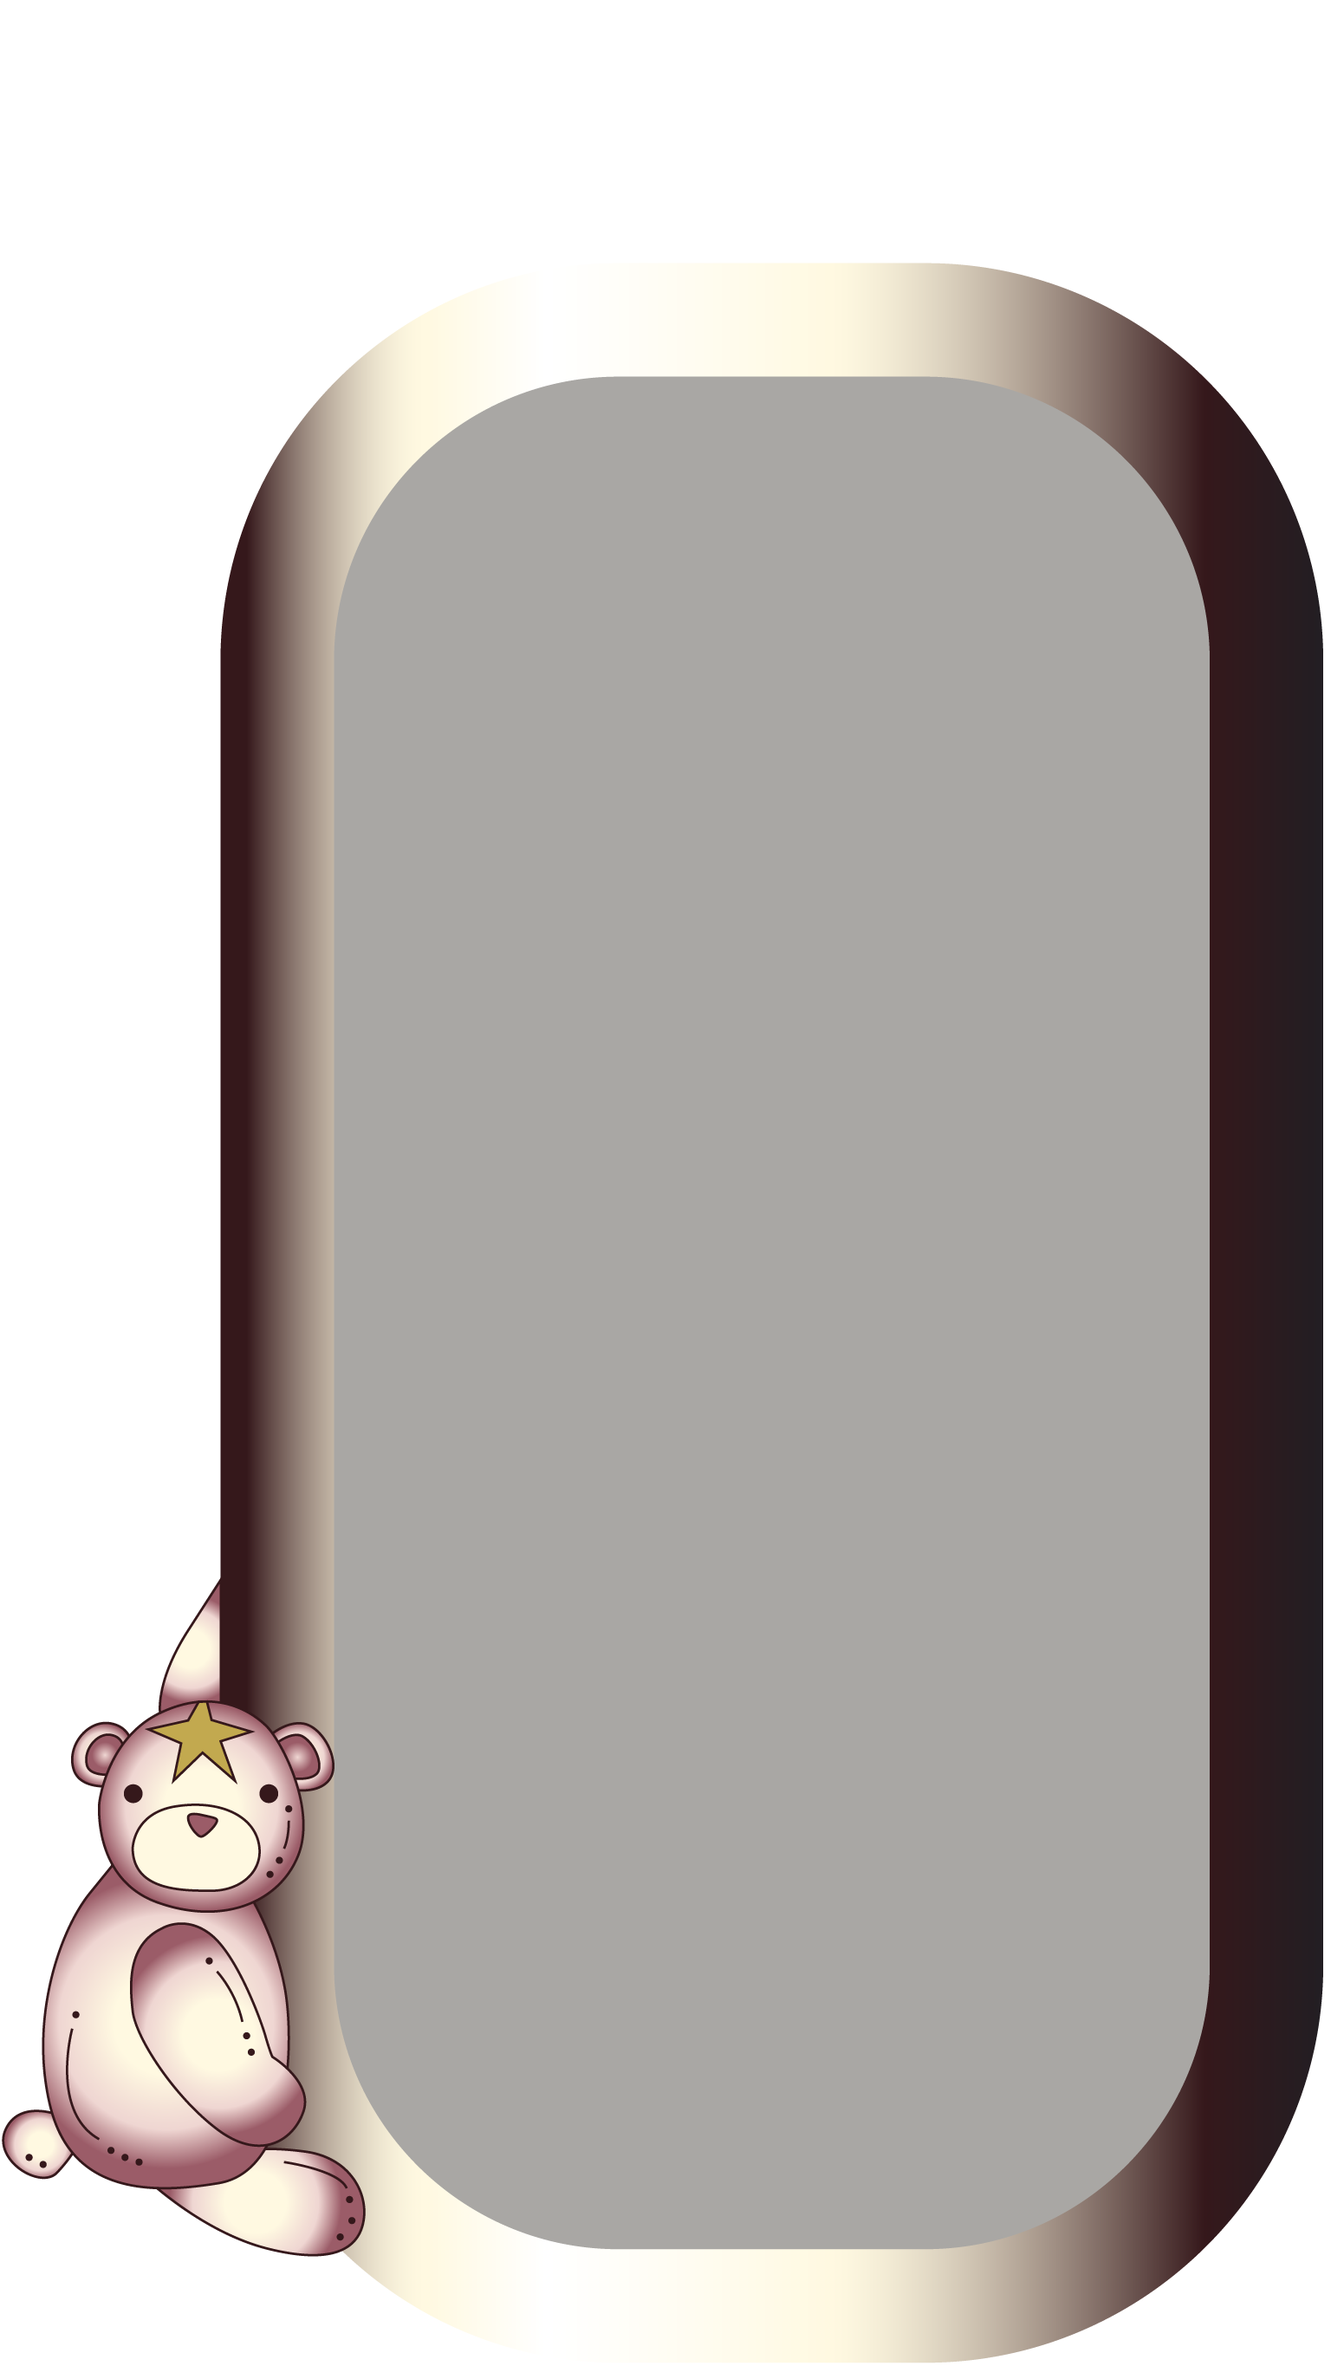
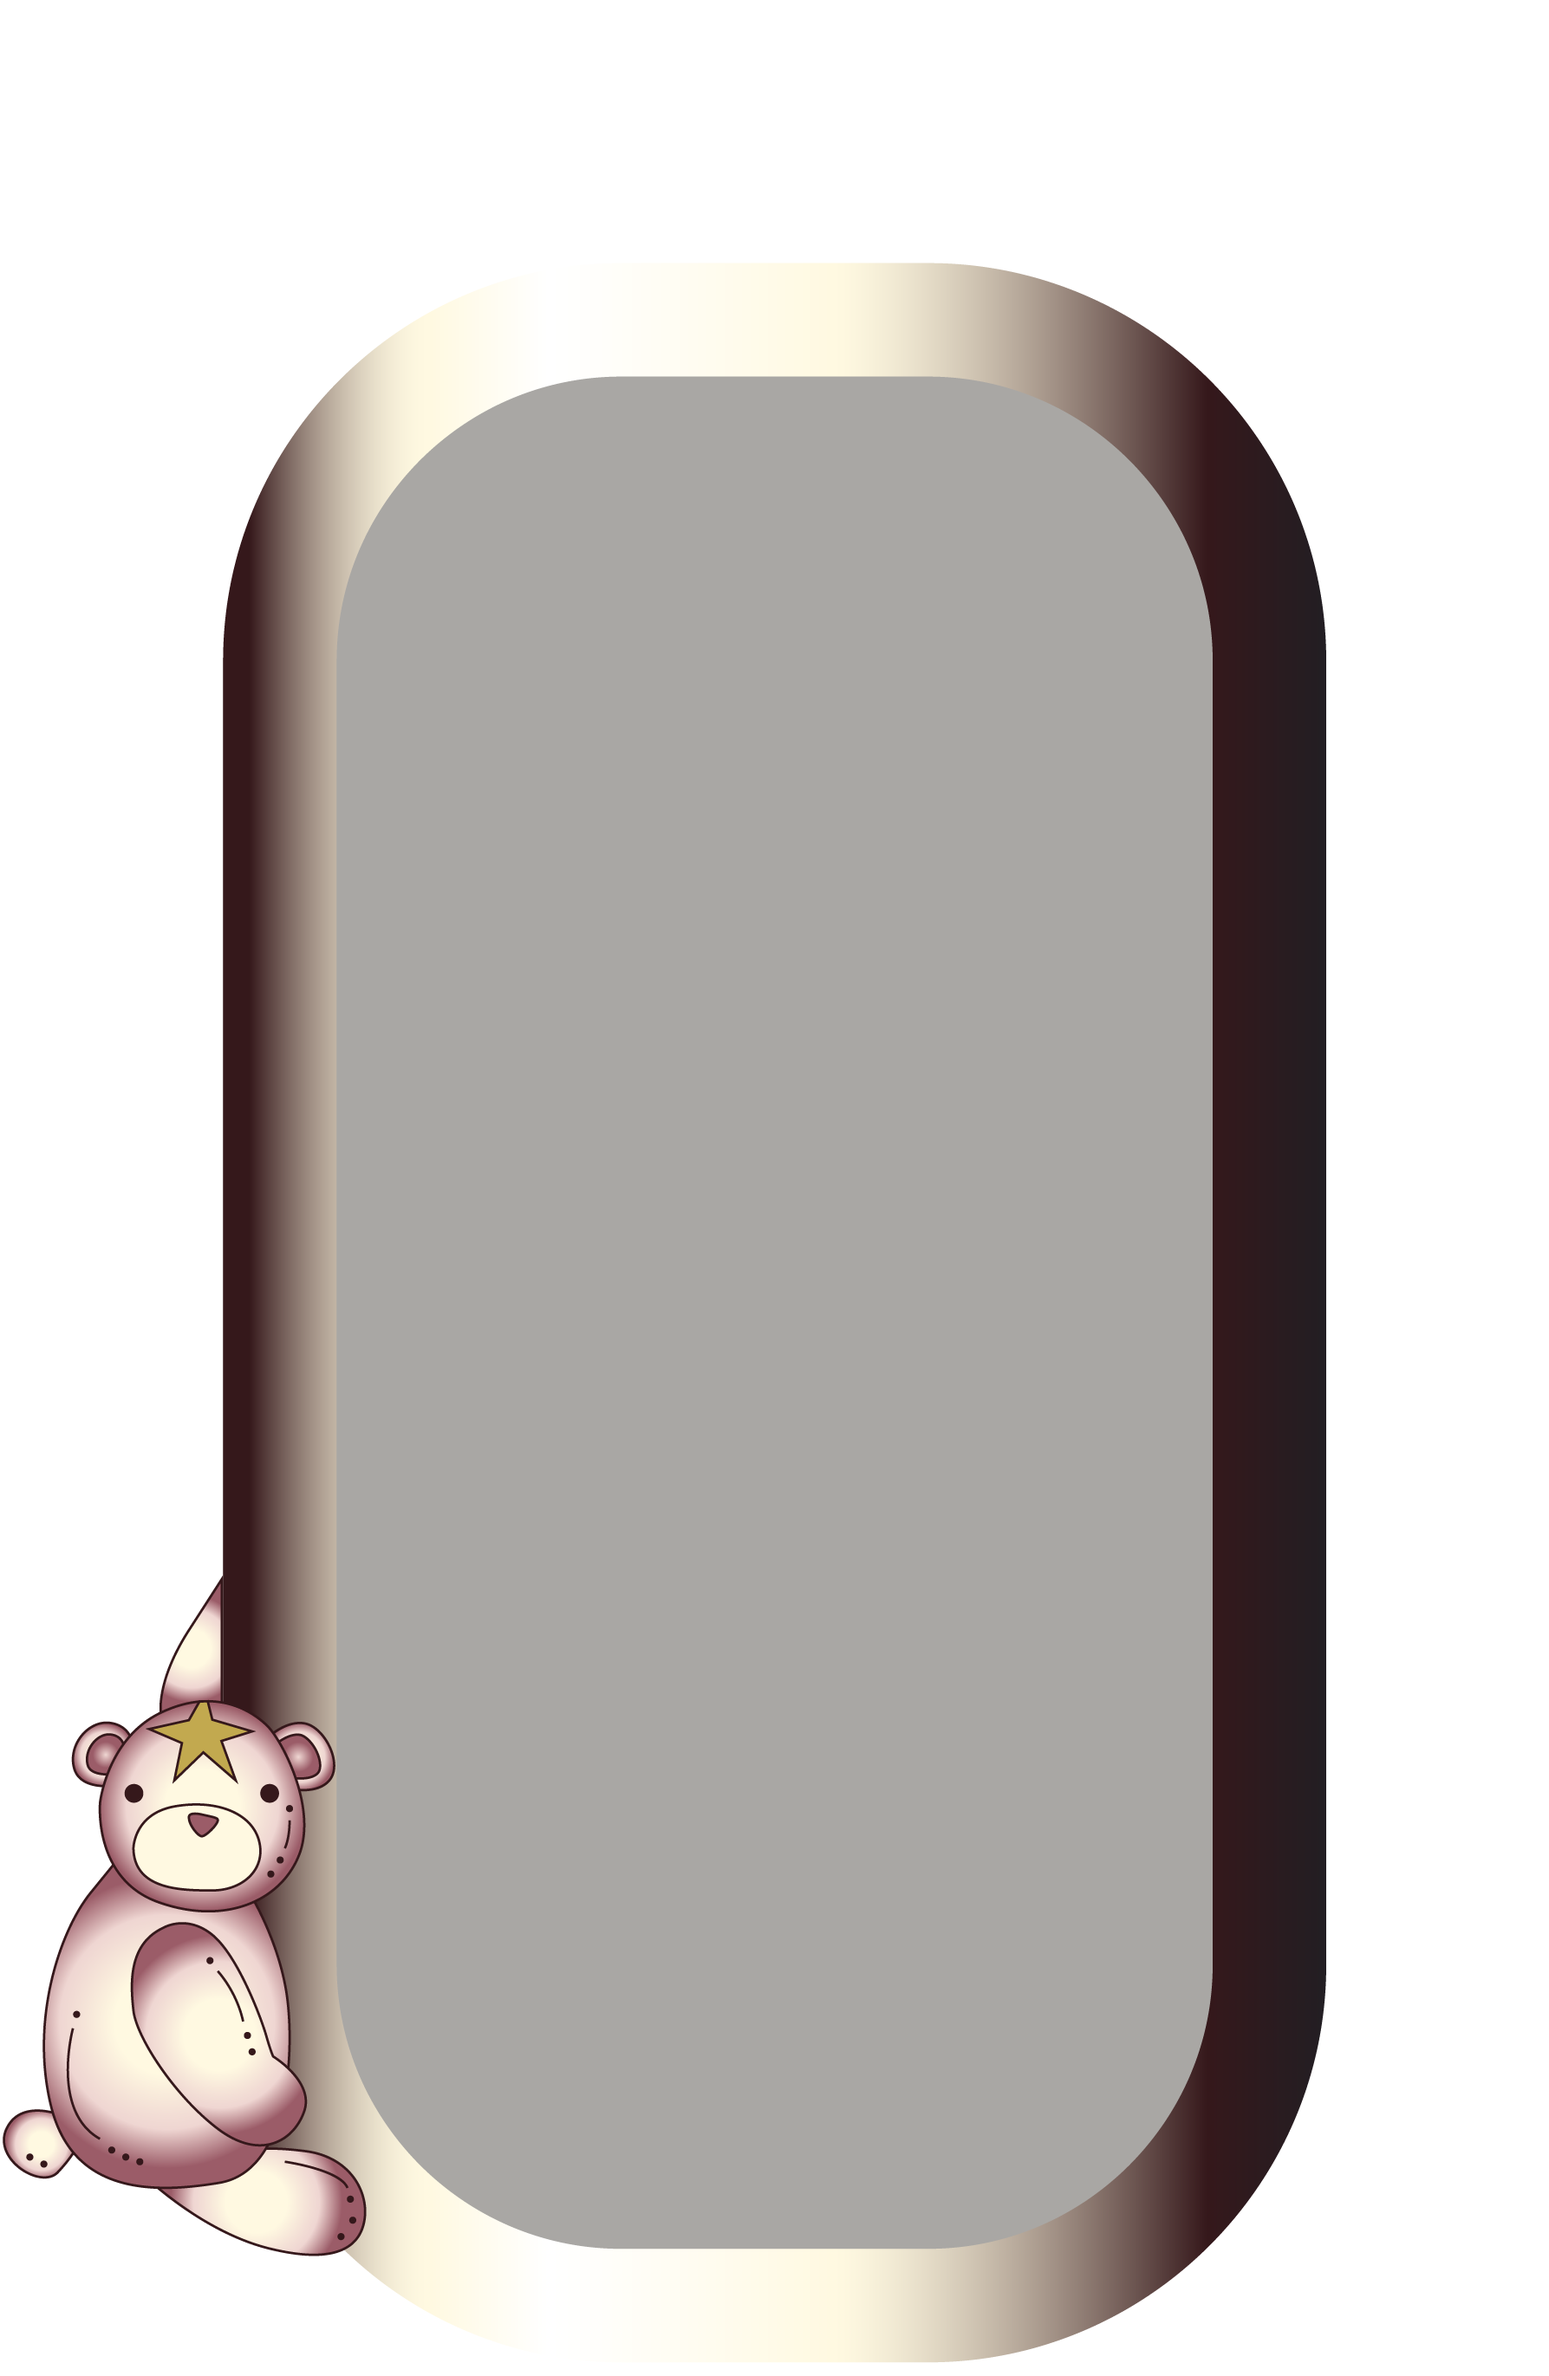
final

Changed region(s): [[0.4375, 0.0934, 1.0, 1.0], [0.0, 0.1245, 0.4375, 0.9963], [0.3438, 0.9341, 0.4062, 0.9652]]

diff --git a/index.html b/index.html
@@ -13,19 +13,20 @@
 <body>
     <header>
         <article class="heroimage">
-            <img src="images/starsL.png" alt="star" width="100" height="110">
-            <img src="images/L.png" alt="L" width="50">
-            <img src="images/bbhead1.png" alt="baby" width="140" height="120">
-            <img src="images/S.png" alt="S" width="50">
-            <img src="images/bbhead2.png" alt="baby" width="140" height="120">
-            <img src="images/H.png" alt="H" width="50">
-            <img src="images/starsR.png" alt="star" width="100" height="110">
+            <img src="images/starsL.png" alt="star" width="100" height="110" class="strgrow">
+            <img src="images/L.png" alt="L" width="50" class="me">
+            <img src="images/bbhead1.png" alt="baby" width="140" height="120" class="headspin">
+            <img src="images/S.png" alt="S" width="50" class="me">
+            <img src="images/bbhead2.png" alt="baby" width="140" height="120" class="headspin">
+            <img src="images/H.png" alt="H" width="50" class="me">
+            <img src="images/starsR.png" alt="star" width="100" height="110" class="strgrow">
         </article>
         <h1 id="tagline">DES 157A - Interactive Media II - WQ '23</h1>
     </header>
 
     <main>
         <article id="column1">
+            <br><br><br><br><br>
             <h2>studios</h2>
             <ul>
                 <li><a href="">learning journal</a></li>
@@ -41,6 +42,7 @@
         </article>
 
         <article id="column2">
+            <br><br><br><br><br>
             <h2>r&d</h2>
             <ul>
                 <li><a href="">project brief</a></li>
@@ -52,6 +54,7 @@
         </article>
 
         <article id="column3">
+            <br><br><br><br><br>
             <h2>final</h2>
             <ul>
                 <li><a href="">final project</a></li>

diff --git a/styles.css b/styles.css
@@ -39,6 +39,28 @@ header{
     padding: 15px;
 }
 
+.me {
+    transform: scale(1.2);
+}
+
+.headspin {
+    animation:wiggle 4s infinite;
+}
+
+@keyframes wiggle {
+100% {
+    transform: rotate(360deg);
+}
+}
+
+.strgrow {
+    transition-duration: 1s;
+}
+
+.strgrow:hover {
+    transform: scale(1.3);
+}
+
 #tagline {
     font-family: 'Padyakke Expanded One', cursive;
     color:#FFF9E1;
@@ -52,7 +74,8 @@ main {
     padding:none;
 }
 main article {
-    height: 650px;
+    padding:none;
+    height:625px;
 }
 
 main article ul  {
@@ -72,8 +95,6 @@ main article ul li a {
 
 article {
     text-align:center;
-    padding-left:80px;
-    padding-right:80px;
 }
 
 h2 {
@@ -81,32 +102,26 @@ h2 {
     color:#FFF9E1;
     text-shadow: 2px 2px 4px #221D1D;
 }
-#column1 #column2 #column3 {
-    height: 800px;
+#column1, #column2, #column3 {
+    width:300px;
+    background-size: 400px;
+    background-position: center;
+    background-repeat: no-repeat;
+    padding: none;
 }
 
 #column1 {
     background-image: url("images/teddy1.png");
-    background-size: 350px;
-    background-position: center;
-    background-repeat: no-repeat;
-    padding-left: none;
+    width:400px;
 }
 
 #column2 {
     background-image: url("images/teddy2.png");
-    background-size: 300px;
-    background-position: center;
-    background-repeat: no-repeat;
-    padding:none;
 }
 
 #column3 {
     background-image: url("images/teddy3.png");
-    background-size: 350px;
-    background-position: center;
-    background-repeat: no-repeat;
-    padding-right:none;
+    width:400px;
 } 
 
 footer  {
@@ -116,5 +131,5 @@ footer  {
 
 footer a {
     text-decoration: none;
-    color: #221D1D;
+    color:#FFF9E1;
 }
